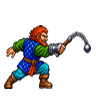
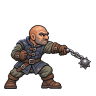
Redraw the unshielded steel flail ready and strike poses

Changed region(s): [[0.0312, 0.25, 0.9688, 0.9375]]

diff --git a/docs/ART-INVENTORY.md b/docs/ART-INVENTORY.md
@@ -69,18 +69,22 @@ even when several areas have their own replacement. The table inventories
 archive contents. The live routes establish which frames are drawn.
 **Exact portrait and combat matches** lists original frames whose pixels
 already resolve to global enhanced artwork through the browser's matchers.
-The inventory at `0413ce79` reports 833 source frames, including 26
+The inventory at `a5a12b3c` reports 833 source frames, including 26
 `COMSPR.DAX` frames, with 462 linked directly, 22 covered through exact
 pixel matches, and 349 unlinked. The
 unlinked entries include 11 uniform frames and 7 with scoped reuse
-candidates. The full enhanced manifest has 7,158 validated replacement
-mappings, including 71 distinct script illustration PNGs. Multiple
+candidates. The full enhanced manifest has 7,167 validated replacement
+mappings, including 73 distinct script illustration PNGs. Multiple
 encounter branches can use the same source frame, and some script scenes
 have no archive picture. Branch-specific artwork can improve live coverage
 without changing the source-frame count.
 The party combat icon tables count default-palette combinations with both
 poses. All 448 tall combinations across 14 head sets and all 352 small
 combinations across 11 distinct head sets have both poses.
+The unshielded steel flail uses a 96×96 ready and strike pair with
+matching material masks. The `valjevo-party-flail` Chrome replay checks
+both poses at the same battlefield position and verifies that a custom
+color changes only the selected material without changing transparency.
 **Unlinked source frames** lists the individual unlinked PIC, SPRIT, and
 CPIC frames by archive, directory index, member, and frame. Each entry
 includes its 4× dimensions and links to the local source sheet. The JSON
